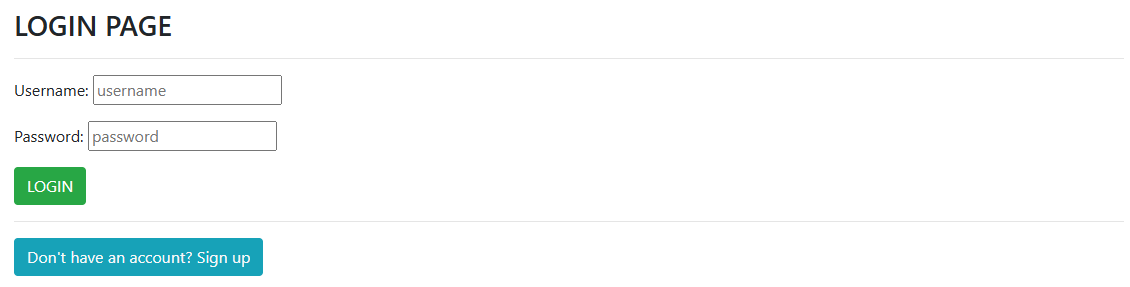
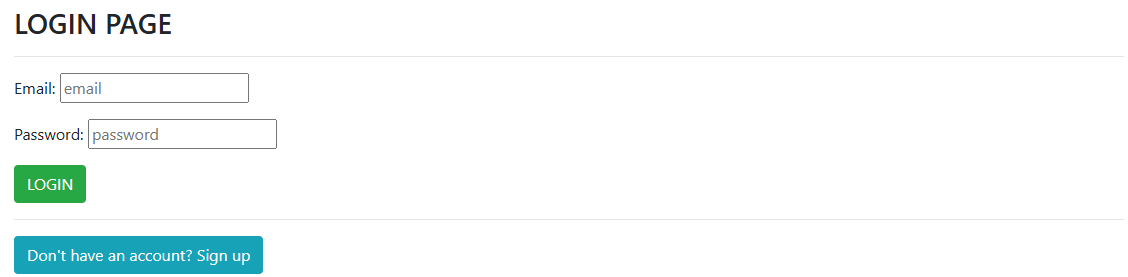
Email, Password for login Using email and password for logging, added delete method to delete user

diff --git a/app/src/main/resources/templates/account.html b/app/src/main/resources/templates/account.html
@@ -32,6 +32,12 @@
 
     <br/><br/>
 
+    <form th:action="@{/account/delete/{userId}(userId=${user.userId})}" method="POST">
+        <input type="submit" value="DELETE YOUR ACCOUNT" class="btn btn-danger btn-sm">
+    </form>
+
+    <br/><br/>
+
     <form th:action="@{/logout}" method="POST">
         <input type="submit" value="LOGOUT" />
     </form>

diff --git a/app/src/main/resources/templates/login-page.html b/app/src/main/resources/templates/login-page.html
@@ -15,7 +15,7 @@
     <form th:action="@{/myLogin}" method="POST">
 
         <p>
-            Username: <input type="text" placeholder="username" name="username" />
+            Email: <input type="text" placeholder="email" name="email" />
         </p>
 
         <p>

diff --git a/app/src/main/java/com/gameroom/app/controller/DemoController.java b/app/src/main/java/com/gameroom/app/controller/DemoController.java
@@ -3,13 +3,18 @@ package com.gameroom.app.controller;
 import com.gameroom.app.security.model.User;
 import com.gameroom.app.security.service.UserService;
 import jakarta.servlet.http.HttpServletRequest;
+import jakarta.servlet.http.HttpSession;
 import org.springframework.beans.factory.annotation.Autowired;
 import org.springframework.http.HttpStatus;
 import org.springframework.http.MediaType;
 import org.springframework.http.ResponseEntity;
+import org.springframework.security.core.context.SecurityContextHolder;
 import org.springframework.stereotype.Controller;
 import org.springframework.ui.Model;
 import org.springframework.web.bind.annotation.GetMapping;
+import org.springframework.web.bind.annotation.PathVariable;
+import org.springframework.web.bind.annotation.PostMapping;
+import org.springframework.web.bind.annotation.RequestParam;
 
 import java.util.List;
 
@@ -37,7 +42,7 @@ public class DemoController {
     public String myAccount(Model model, HttpServletRequest request) {
 
         String username = request.getUserPrincipal().getName();
-        User user = userService.findUserByUsername(username);
+        User user = userService.findUserByEmail(username);
 
         System.out.println("User: " + user.toString());
 
@@ -45,6 +50,26 @@ public class DemoController {
 
         return "account";
     }
+
+    @PostMapping("/account/delete/{userId}")
+    public String deleteAccount(@PathVariable Long userId, HttpServletRequest request) {
+
+        System.out.println(userId);
+
+        HttpSession session = request.getSession(false);
+
+        if (session != null) {
+
+            session.invalidate(); // delete session that has been found
+        }
+
+        SecurityContextHolder.clearContext(); // delete authentication from Spring Security context
+
+        userService.deleteUser(userId);
+
+        return "redirect:/";
+    }
+
 
     @GetMapping("/accounts")
     public String accounts(Model model) {

diff --git a/app/src/main/java/com/gameroom/app/security/controller/LoginRegistrationController.java b/app/src/main/java/com/gameroom/app/security/controller/LoginRegistrationController.java
@@ -81,9 +81,9 @@ public class LoginRegistrationController {
     }
 
     @PostMapping("/myLogin")
-    public String login(@RequestParam String username, @RequestParam String password, HttpServletRequest request) {
+    public String login(@RequestParam String email, @RequestParam String password, HttpServletRequest request) {
 
-        User u = userService.findUserByUsername(username);
+        User u = userService.findUserByEmail(email);
 
         if (u == null) {
             System.out.println("User not found!");
@@ -95,15 +95,18 @@ public class LoginRegistrationController {
             return "redirect:/showLoginPage";
         }
 
-
         // authentication
         try {
-            request.login(username, password); // https://www.baeldung.com/spring-security-auto-login-user-after-registration
+            request.login(email, password); // https://www.baeldung.com/spring-security-auto-login-user-after-registration
         } catch (ServletException e) {
             System.err.println("Error while login! - " + e);
         }
 
         System.out.println("Login successful! - " + request.getRemoteUser());
+
+        // TODO: Send confirmation email
+
+        // TODO: Send JWT token
 
         return "redirect:/home";
     }
@@ -121,8 +124,6 @@ public class LoginRegistrationController {
         }
 
         SecurityContextHolder.clearContext(); // delete authentication from Spring Security context
-
-        // you can maybe use request.logout() instead all of the above...
 
         return "redirect:/";
     }

diff --git a/app/src/main/java/com/gameroom/app/security/GameRoomSecurityConfig.java b/app/src/main/java/com/gameroom/app/security/GameRoomSecurityConfig.java
@@ -20,14 +20,14 @@ public class GameRoomSecurityConfig {
 
         JdbcUserDetailsManager jdbcUserDetailsManager = new JdbcUserDetailsManager(dataSource);
 
-        // query to retrieve a user by username
+        // query to retrieve a user by email
         jdbcUserDetailsManager.setUsersByUsernameQuery(
-                "SELECT u.username, u.password, true as enabled FROM users u WHERE u.username=?"
+                "SELECT u.email, u.password, true as enabled FROM users u WHERE u.email=?"
         );
 
-        //query to retrieve the roles by username
+        //query to retrieve the roles by email
         jdbcUserDetailsManager.setAuthoritiesByUsernameQuery(
-                "SELECT u.username, r.role_name FROM users u, roles r WHERE u.username=? AND u.user_id=r.user_id"
+                "SELECT u.email, r.role_name FROM users u, roles r WHERE u.email=? AND u.user_id=r.user_id"
         );
 
         return jdbcUserDetailsManager;
@@ -51,7 +51,7 @@ public class GameRoomSecurityConfig {
 
                                 .requestMatchers("/home", "/pcs/**" , "/players/**", "/account/**").hasAnyRole("EMPLOYEE", "MANAGER", "ADMIN")
 
-                                .requestMatchers("/save/**", "/update/**", "/form/**").hasAnyRole("MANAGER", "ADMIN")
+                                .requestMatchers("/save/**", "/update/**", "/form/**", "/accounts/**").hasAnyRole("MANAGER", "ADMIN")
 
                                 .requestMatchers("/remove/**").hasRole("ADMIN")
 

diff --git a/app/src/main/java/com/gameroom/app/security/dao/UserDAO.java b/app/src/main/java/com/gameroom/app/security/dao/UserDAO.java
@@ -61,4 +61,22 @@ public class UserDAO {
         return query.getResultList();
     }
 
+    public boolean deleteUser(Long userId) {
+
+        User user = null;
+
+        try{
+
+            user = entityManager.find(User.class, userId);
+            entityManager.remove(user);
+
+            return true;
+
+        } catch (Exception e) {
+            System.err.println("Could NOT DELETE User - " + userId + "; " + e.getMessage());
+
+            return false;
+        }
+    }
+
 }

diff --git a/app/src/main/java/com/gameroom/app/security/service/UserService.java b/app/src/main/java/com/gameroom/app/security/service/UserService.java
@@ -44,6 +44,12 @@ public class UserService {
         return true;
     }
 
+    @Transactional
+    public boolean deleteUser(Long userId) {
+
+        return userDAO.deleteUser(userId);
+    }
+
     public User findUserByUsername(String username) {
 
         User user = null;

diff --git a/More_README.md b/More_README.md
@@ -146,4 +146,7 @@ Player can't be stored into database/table if he's not using the PC.
 
 # TO DO
 
-JWT, Spring Email, Pagination, 
+- Custom Login/Logout = (01-Feb-2025), 
+- JWT, 
+- Spring Email, 
+- Pagination, 
